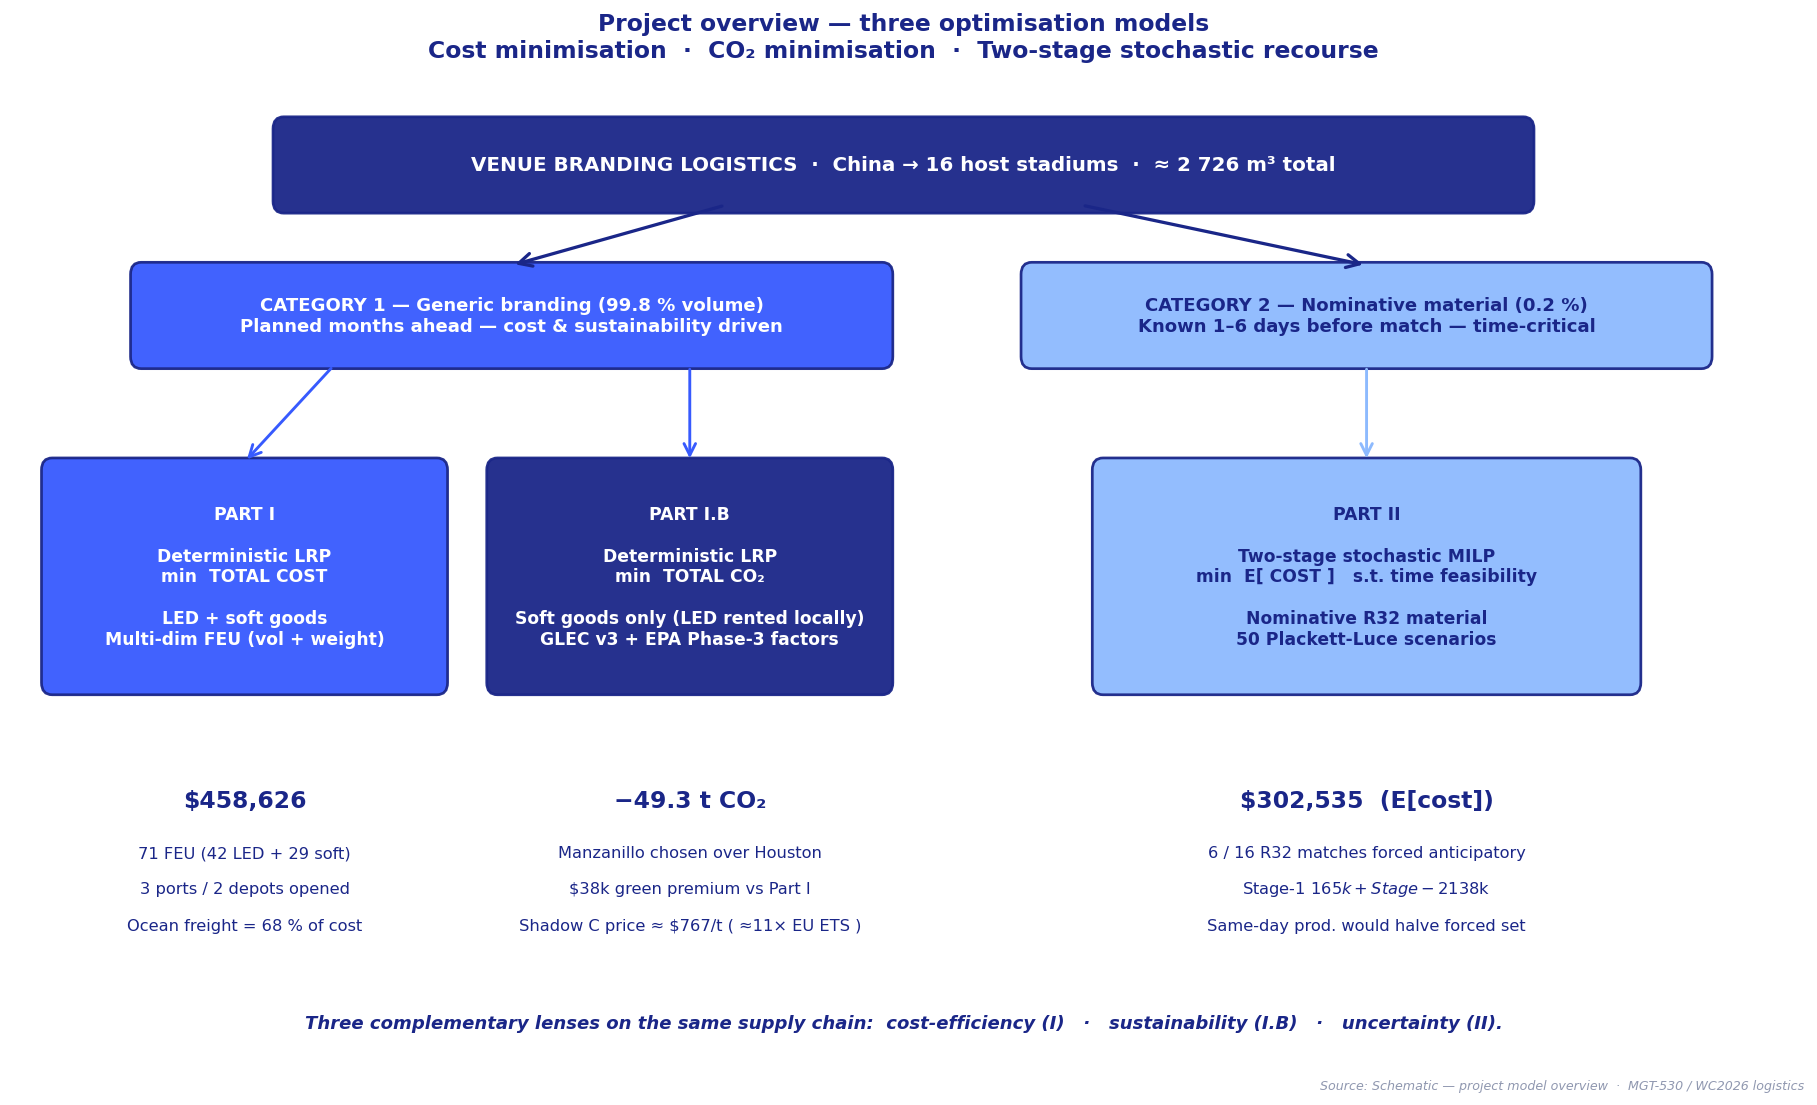
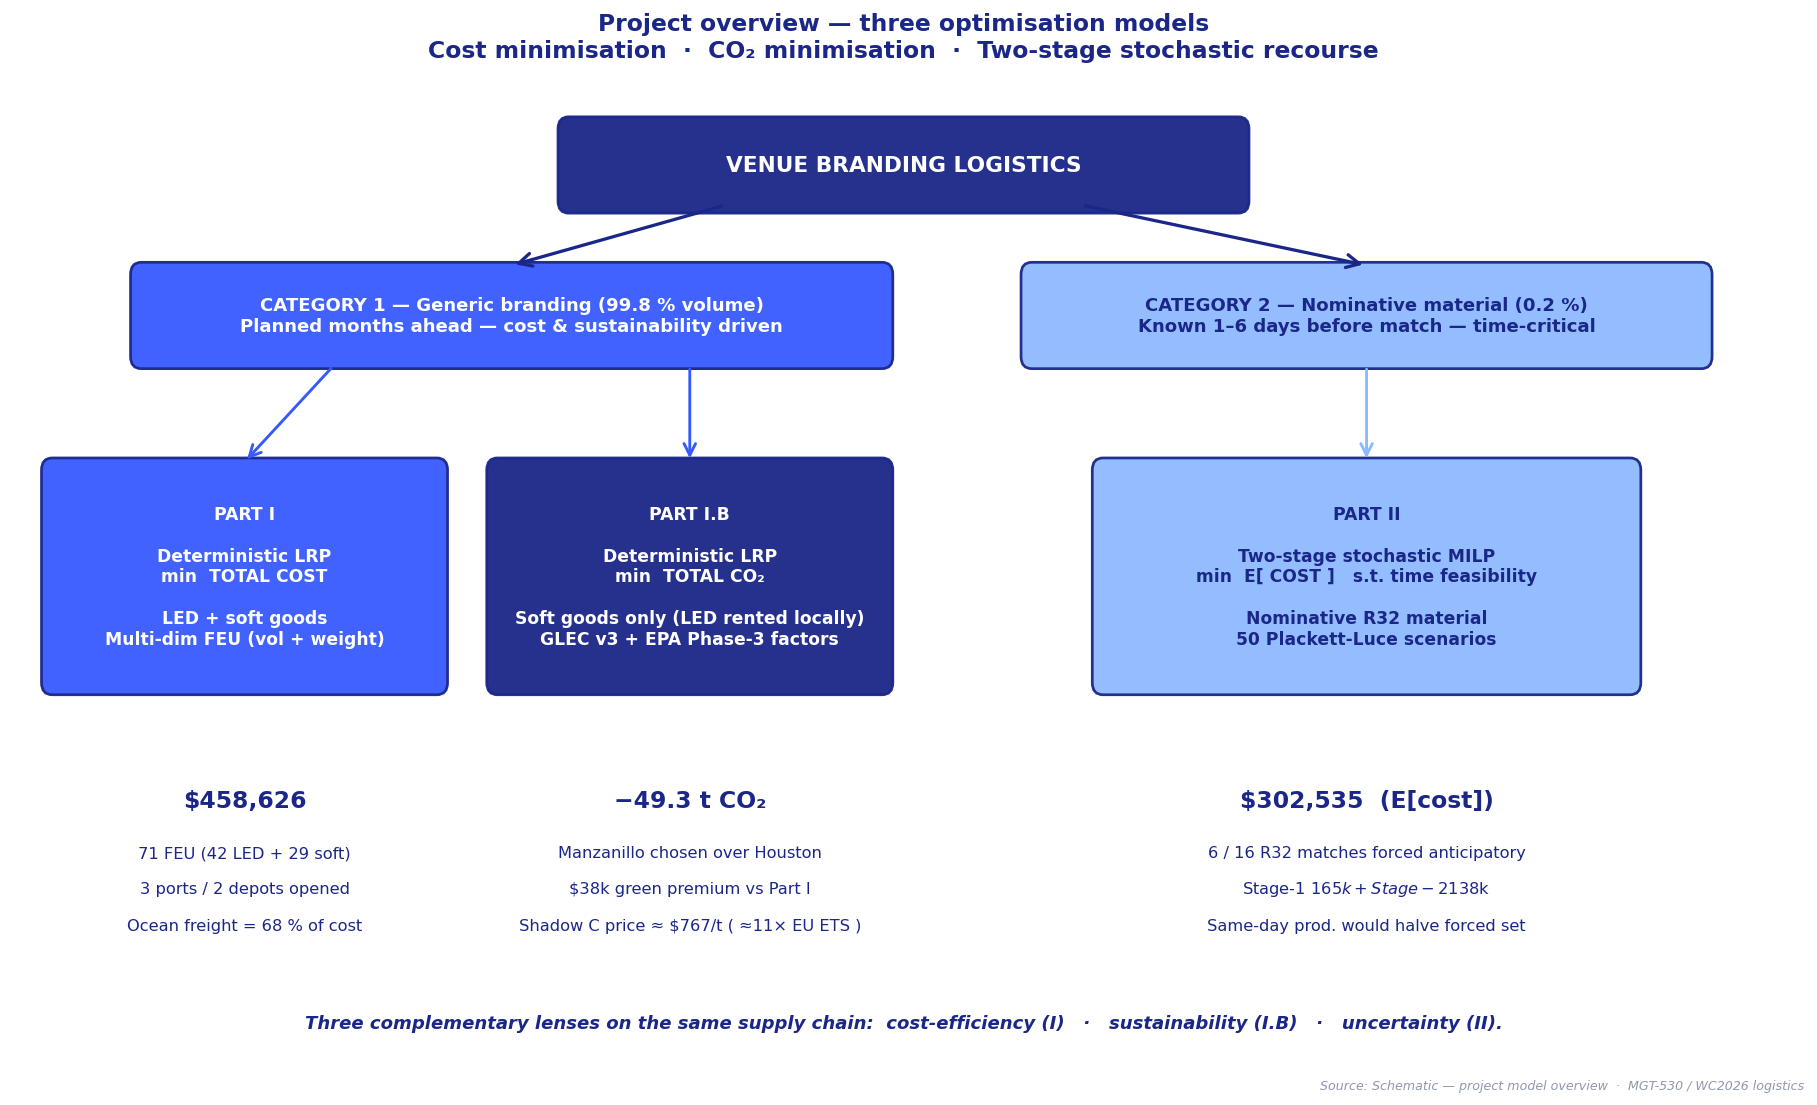
style: simplify top header of overview schematic (keep only 'VENUE BRANDING LOGISTICS')

Changed region(s): [[0.1233, 0.0923, 0.6164, 0.2154], [0.6472, 0.0923, 0.863, 0.2154]]

diff --git a/src/common/visualize.py b/src/common/visualize.py
@@ -1706,9 +1706,9 @@ def fig_three_models_overview():
                 fontsize=fontsize, color=text_color, fontweight=fontweight)
 
     # ---- Top header
-    box(50, 45.5, 70, 4,
-        "VENUE BRANDING LOGISTICS  ·  China → 16 host stadiums  ·  ≈ 2 726 m³ total",
-        F_NAVY, text_color="white", fontsize=11)
+    box(50, 45.5, 38, 4,
+        "VENUE BRANDING LOGISTICS",
+        F_NAVY, text_color="white", fontsize=12)
 
     # ---- Category banners
     box(28, 38, 42, 4.5,
